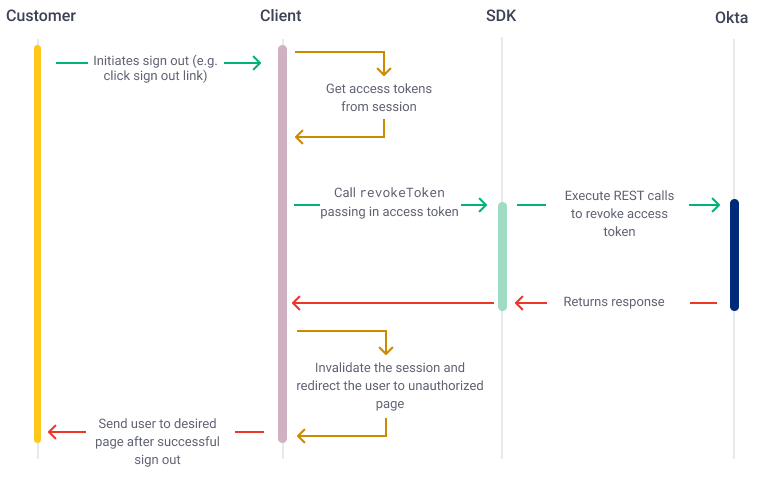
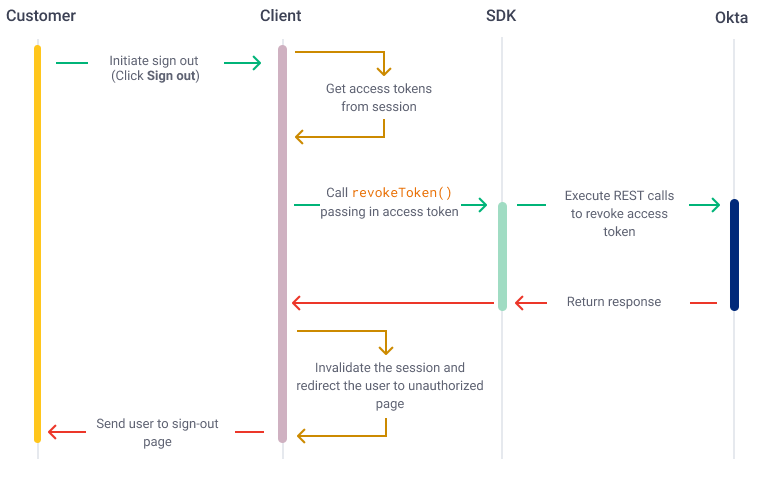
fix image, alt-text, formatting

diff --git a/packages/@okta/vuepress-site/docs/guides/oie-embedded-sdk-use-cases/oie-embedded-sdk-use-case-basic-sign-out/java/integrationsteps.md b/packages/@okta/vuepress-site/docs/guides/oie-embedded-sdk-use-cases/oie-embedded-sdk-use-case-basic-sign-out/java/integrationsteps.md
@@ -6,8 +6,7 @@ The first step is to create a link, button, or other similar UI element that all
 
 <div class="common-image-format">
 
-![Sign out link](/img/oie-embedded-sdk/oie-embedded-sdk-use-case-simple-sign-out-link.png
- "Sign out link")
+![Displays a 'Sign out' button](/img/oie-embedded-sdk/oie-embedded-sdk-use-case-simple-sign-out-link.png)
 
 </div>
 
@@ -17,7 +16,7 @@ When the sign-out request is initiated, create the following flow:
 
 1. Obtain the access token from the active session state.
 
-1. Call `revokeToken` on [IDXAuthenticationWrapper](https://github.com/okta/okta-idx-java/blob/master/api/src/main/java/com/okta/idx/sdk/api/client/IDXAuthenticationWrapper.java), passing in the access token obtained from the previous step.
+1. Call the [`IDXAuthenticationWrapper.revoketoken()`](https://github.com/okta/okta-idx-java/blob/master/api/src/main/java/com/okta/idx/sdk/api/client/IDXAuthenticationWrapper.java#L497) method, passing in the access token obtained from the previous step.
 
 1. Invalidate the current session.
 

diff --git a/packages/@okta/vuepress-site/docs/guides/oie-embedded-sdk-use-cases/oie-embedded-sdk-use-case-basic-sign-out/java/summaryofsteps.md b/packages/@okta/vuepress-site/docs/guides/oie-embedded-sdk-use-cases/oie-embedded-sdk-use-case-basic-sign-out/java/summaryofsteps.md
@@ -4,7 +4,6 @@ This use case signs a user out of the local app by revoking their session tokens
 
 <div class="common-image-format">
 
-![Basic sign out sequence diagram for Java](/img/oie-embedded-sdk/oie-embedded-sdk-use-case-simple-sign-out-seq-java.png
- "Basic sign out sequence diagram for Java]")
+![Displays the sign-out flow sequence steps for the Java SDK](/img/oie-embedded-sdk/oie-embedded-sdk-use-case-simple-sign-out-seq-java.png)
 
 </div>
